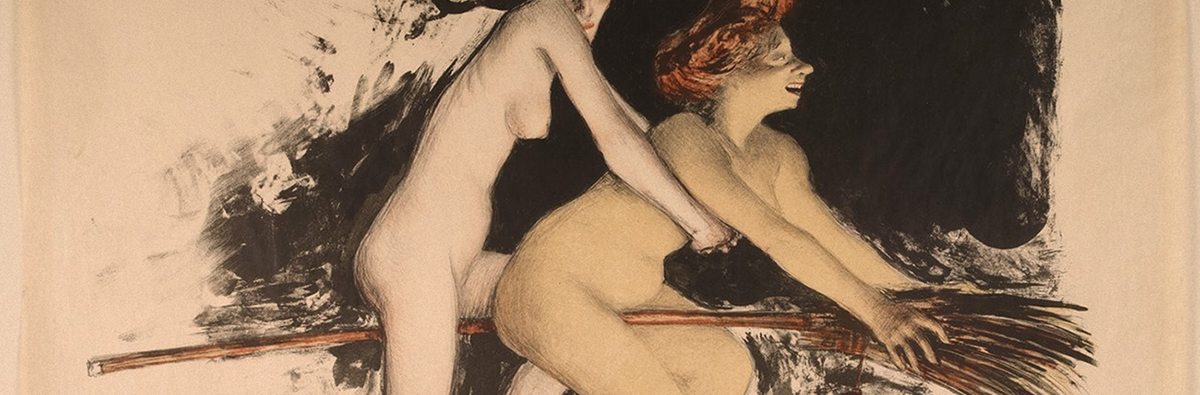
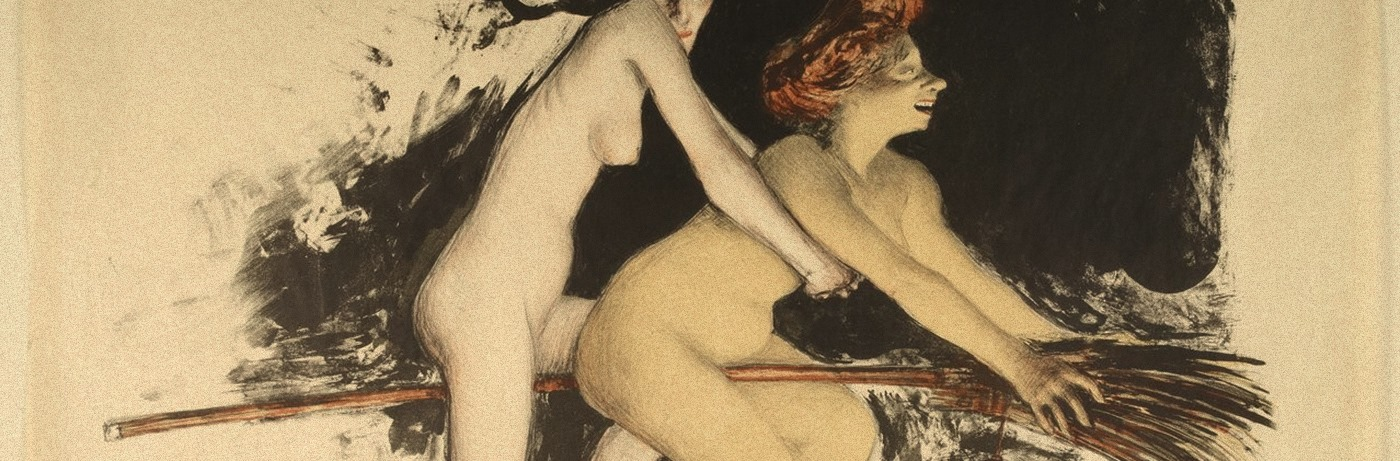
résolution du bug d'affichage de l'image / issue #147

diff --git a/sortiaria/templates/conteneur.html b/sortiaria/templates/conteneur.html
@@ -8,7 +8,7 @@
         <style type="text/css">
             .hero  {
                 background-position: center bottom;
-                padding:32.5vh;
+                padding:29vh;
                 background-image: url({{url_for("static", filename="images/gallica_btv1b8577579h.jpg")}});
             }
             .container .hero {
